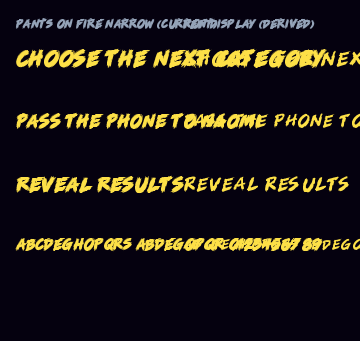
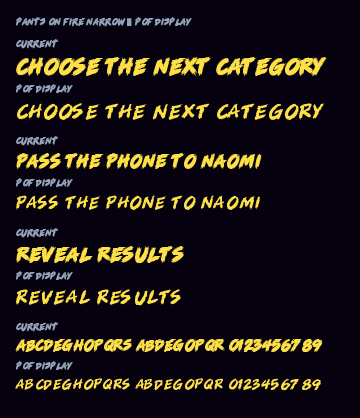
chore(fonts): stack comparison preview and trim derived README

diff --git a/scripts/fonts/render_display_font_preview.py b/scripts/fonts/render_display_font_preview.py
@@ -1,5 +1,5 @@
 #!/usr/bin/env python3
-"""Old vs PoF Display comparison sheet (yellow on dark, mobile-ish sizes)."""
+"""Old vs PoF Display comparison sheet (yellow on dark, 360px mobile width)."""
 from __future__ import annotations
 
 from pathlib import Path
@@ -23,41 +23,52 @@ YELLOW = (253, 224, 71)
 LABEL = (148, 163, 184)
 WIDTH = 360
 PAD = 16
+GAP = 10
 
 
 def load_font(path: Path, size: int) -> ImageFont.FreeTypeFont:
     return ImageFont.truetype(str(path), size=size)
 
 
+def text_height(draw: ImageDraw.ImageDraw, text: str, font: ImageFont.FreeTypeFont) -> int:
+    box = draw.textbbox((0, 0), text, font=font)
+    return box[3] - box[1]
+
+
 def main() -> None:
-    row_h = 0
-    blocks = []
+    probe = ImageDraw.Draw(Image.new("RGB", (1, 1)))
+    label_font = load_font(OLD_FONT, 11)
+
+    y = PAD
     for text, size in PHRASES:
         old_f = load_font(OLD_FONT, size)
         new_f = load_font(NEW_FONT, size)
-        old_box = ImageDraw.Draw(Image.new("RGB", (1, 1))).textbbox(
-            (0, 0), text, font=old_f
-        )
-        new_box = ImageDraw.Draw(Image.new("RGB", (1, 1))).textbbox(
-            (0, 0), text, font=new_f
-        )
-        h = max(old_box[3] - old_box[1], new_box[3] - new_box[1]) + 8
-        blocks.append((text, size, h))
-        row_h += h + 36
+        y += text_height(probe, "OLD", label_font) + 4
+        y += max(text_height(probe, text, old_f), text_height(probe, text, new_f)) + 4
+        y += text_height(probe, "NEW", label_font) + 4
+        y += max(text_height(probe, text, new_f), text_height(probe, text, old_f)) + GAP + 20
 
-    height = PAD * 2 + 40 + row_h + 20
+    height = y + PAD
     img = Image.new("RGB", (WIDTH, height), BG)
     draw = ImageDraw.Draw(img)
-    draw.text((PAD, PAD), "Pants on Fire Narrow (current)", fill=LABEL, font=load_font(OLD_FONT, 14))
-    draw.text((WIDTH // 2 + 4, PAD), "PoF Display (derived)", fill=LABEL, font=load_font(OLD_FONT, 14))
 
-    y = PAD + 28
-    for text, size, h in blocks:
+    y = PAD
+    draw.text((PAD, y), "Pants on Fire Narrow → PoF Display", fill=LABEL, font=label_font)
+    y += 22
+
+    for text, size in PHRASES:
         old_f = load_font(OLD_FONT, size)
         new_f = load_font(NEW_FONT, size)
+
+        draw.text((PAD, y), "Current", fill=LABEL, font=label_font)
+        y += 14
         draw.text((PAD, y), text, fill=YELLOW, font=old_f)
-        draw.text((WIDTH // 2 + 4, y), text, fill=YELLOW, font=new_f)
-        y += h + 36
+        y += text_height(draw, text, old_f) + GAP
+
+        draw.text((PAD, y), "PoF Display", fill=LABEL, font=label_font)
+        y += 14
+        draw.text((PAD, y), text, fill=YELLOW, font=new_f)
+        y += text_height(draw, text, new_f) + 20
 
     OUT.parent.mkdir(parents=True, exist_ok=True)
     img.save(OUT)

diff --git a/scripts/fonts/build_pof_display.py b/scripts/fonts/build_pof_display.py
@@ -170,9 +170,8 @@ def update_names(font: TTFont, family: str, style: str) -> None:
     for name_id, text in strings.items():
         name.setName(text, name_id, 3, 1, 0x409)
         name.setName(text, name_id, 3, 1, 0x409)
-    # Derived from Pants on Fire Narrow (proprietary project typeface).
     name.setName(
-        "Derived from Pants on Fire Narrow for Pants on Fire: Find the Liar UI trials.",
+        "Derived from Pants on Fire Narrow for Pants on Fire: Find the Liar.",
         13,
         3,
         1,

diff --git a/public/assets/fonts/pants-on-fire/derived/README.md b/public/assets/fonts/pants-on-fire/derived/README.md
@@ -1,47 +1,16 @@
 # PoF Display (derived trial)
 
-**Status:** Not wired into the app. For Martin’s display-type evaluation only.
+**Not wired into the app** — evaluation build only.
 
-## Source
-
-| Item | Detail |
-|------|--------|
-| **Current UI font** | `PantsOnFireNarrow-Regular.*` — CSS family **`Pants on Fire Narrow`** |
-| **Location** | `public/assets/fonts/pants-on-fire/` |
-| **Used for** | Headings (`h1`–`h3`, `.font-black`), `.pof-btn` labels, `.pof-title`, yellow screen titles |
-
-## Licence findings
-
-- There is **no SIL Open Font License (OFL)** or other licence file in this repository for the Pants on Fire typeface.
-- Font **name table** (from `PantsOnFireNarrow-Regular.ttf`): family **“Pants on Fire Narrow”**, subfamily **Regular**, version **1.000** — **no** copyright (nameID 0), **no** licence text (nameID 13), **no** licence URL (nameID 14) embedded.
-- README describes it as a **custom game wordmark / display typeface** built from in-repo `source/` glyph sheets.
-
-**Conclusion:** Treat **Pants on Fire / Pants on Fire Narrow** as a **proprietary project asset** (rights with the game owner). It is **not** a third-party OFL font, so OFL rename/redistribution rules do not apply; **derivation for this product is authorized by the rights holder** (Martin / project), not by a public OFL grant.
-
-If external redistribution of the font were ever required, add an explicit licence file from the rights holder first.
-
-## Derived build
+Derived from **`PantsOnFireNarrow-Regular`** (CSS family `Pants on Fire Narrow`), the brush display face used for headings and button labels.
 
 | File | Description |
 |------|-------------|
-| `PoFDisplay-Narrow-Regular.ttf` | Derived outline font |
-| `PoFDisplay-Narrow-Regular.woff2` | Web build of the same |
-| `pof-display-comparison.png` | Old vs new preview (360px wide) |
+| `PoFDisplay-Narrow-Regular.ttf` / `.woff2` | Lighter strokes, more open counters |
+| `pof-display-comparison.png` | Current vs PoF Display at 360px width |
 
-**Family name (trial):** `PoF Display`  
-**Method:** `scripts/fonts/build_pof_display.py` — flatten outlines → **~22 u inward offset** (~18% stroke thinning at UPM 1000) → simplify; `OS/2.usWeightClass` set to **350**.
-
-## Open-licence alternatives (if derivation is not adopted)
-
-Brushy display faces with **lighter weight / more open counters** (all **OFL**):
-
-1. **[Knewave](https://fonts.google.com/specimen/Knewave)** — rounded brush poster style  
-2. **[Rampart One](https://fonts.google.com/specimen/Rampart+One)** — heavy outline; pair with lighter weight or use at smaller sizes  
-3. **[Alatsi](https://fonts.google.com/specimen/Alatsi)** — semi-brush display, generally clearer counters than ultra-black brush fonts  
-
-These are **not** drop-in matches; they are OFL-safe fallbacks for comparison.
-
-## Regenerate
+**CSS family name (trial):** `PoF Display`  
+**Build:** `scripts/fonts/build_pof_display.py` — inward offset **22 u** (~18% thinning at UPM 1000), `usWeightClass` **350**.
 
 ```bash
 pip install fonttools shapely pillow
